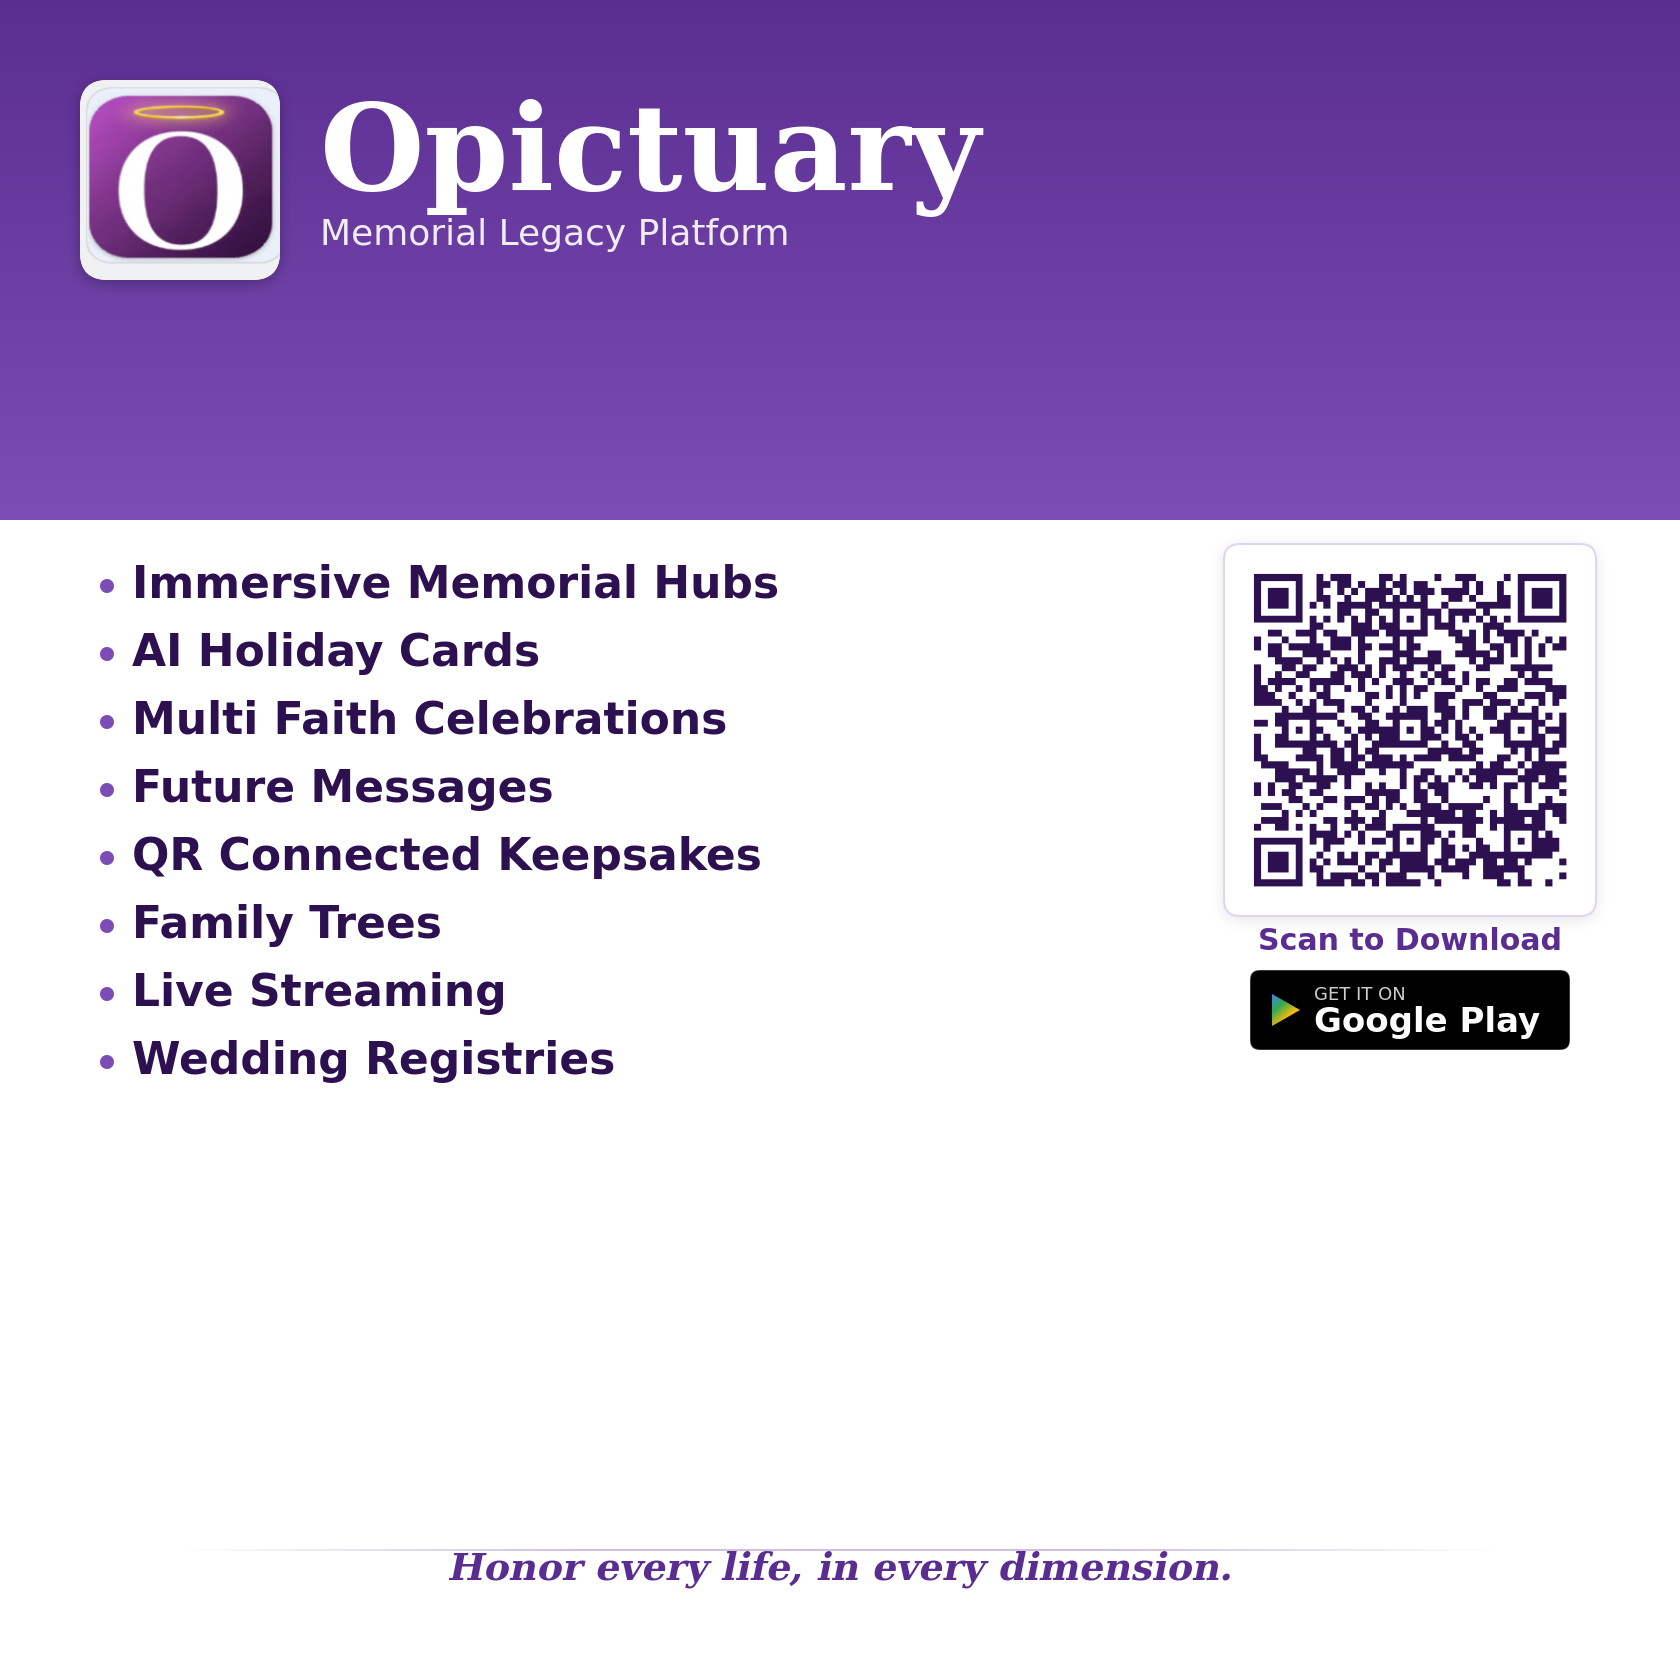
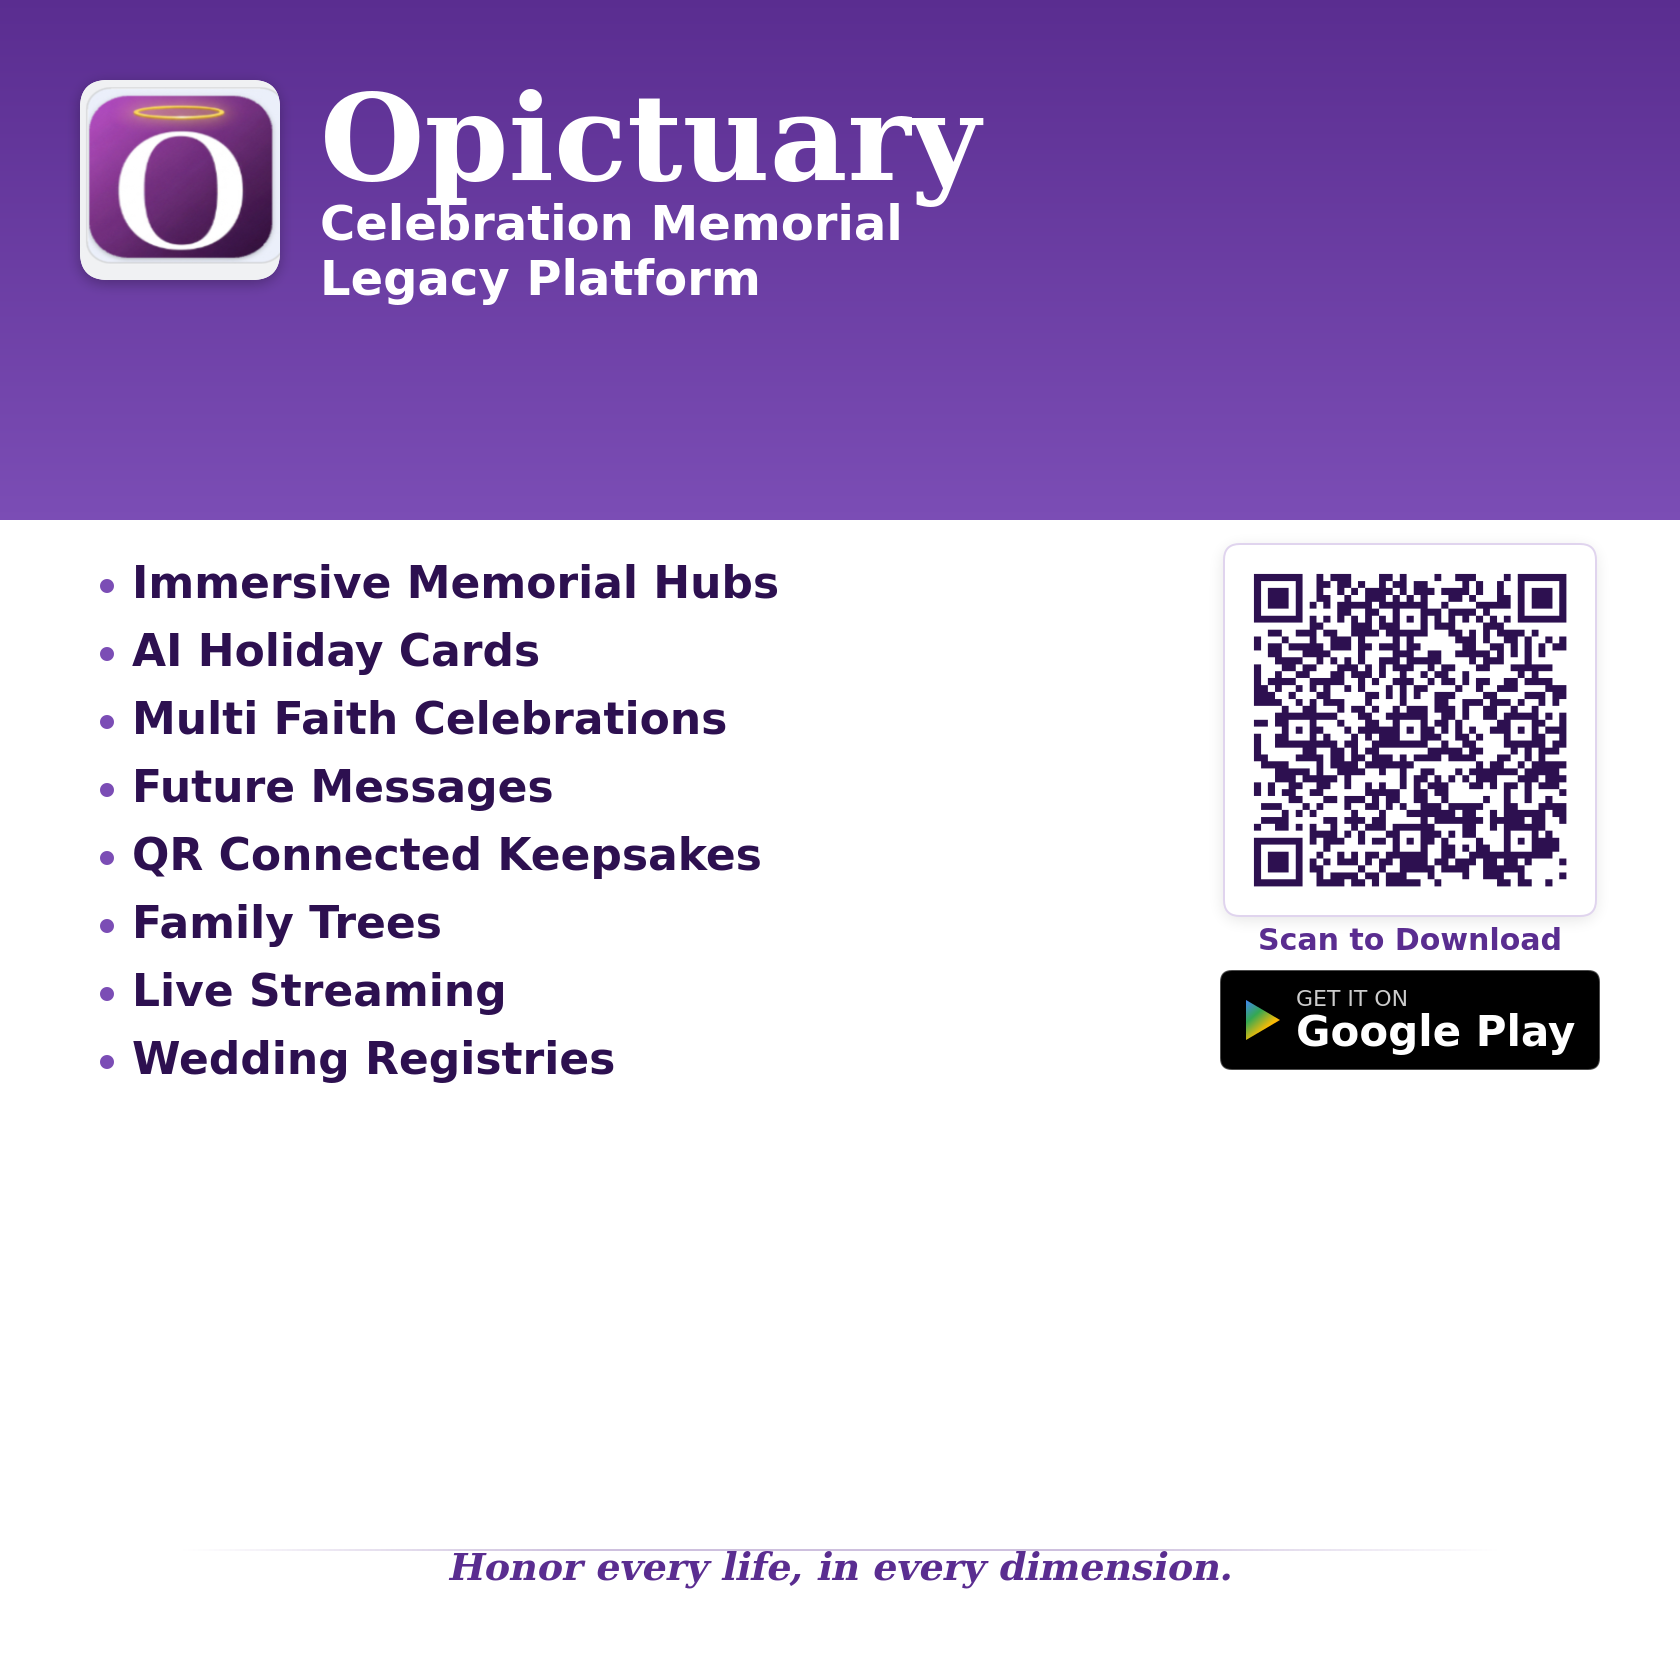
Update memorial sticker with larger text and improved Google Play badge
Adjust text sizes, element dimensions, and positioning in `generate-sticker.js` to increase readability of the "Celebration Memorial Legacy Platform" subtitle and the Google Play badge, and rename the output file to `OpictuarySticker5x5.png`.

Replit-Commit-Author: Agent
Replit-Commit-Session-Id: 05a82474-a50c-443d-bb5e-5c4e27e71629
Replit-Commit-Checkpoint-Type: full_checkpoint
Replit-Commit-Event-Id: fdeeb436-a134-4163-bfac-01d14125a96e
Replit-Commit-Screenshot-Url: https://storage.googleapis.com/screenshot-production-us-central1/0619f857-3b31-48e3-9f83-e1495112055c/05a82474-a50c-443d-bb5e-5c4e27e71629/p3oLqDp

Changed region(s): [[0.1857, 0.031, 0.5881, 0.1857], [0.7119, 0.5571, 0.9595, 0.65]]

diff --git a/generate-sticker.js b/generate-sticker.js
@@ -67,11 +67,12 @@ async function generateSticker() {
   ctx.textAlign = 'left';
   ctx.font = 'bold 120px serif';
   ctx.fillStyle = '#FFFFFF';
-  ctx.fillText('Opictuary', textX, iconY + 110);
+  ctx.fillText('Opictuary', textX, iconY + 100);
 
-  ctx.font = '36px sans-serif';
-  ctx.fillStyle = 'rgba(255,255,255,0.9)';
-  ctx.fillText('Memorial Legacy Platform', textX, iconY + 165);
+  ctx.font = 'bold 48px sans-serif';
+  ctx.fillStyle = '#FFFFFF';
+  ctx.fillText('Celebration Memorial', textX, iconY + 160);
+  ctx.fillText('Legacy Platform', textX, iconY + 215);
 
   const QR_SIZE = 340;
   const qrX = WIDTH - M - QR_SIZE - 20;
@@ -110,28 +111,28 @@ async function generateSticker() {
   ctx.fillStyle = '#5A2D90';
   ctx.fillText('Scan to Download', qrX + QR_SIZE / 2, qrCenterY + QR_SIZE + 50);
 
-  const gpBadgeW = 320;
-  const gpBadgeH = 80;
+  const gpBadgeW = 380;
+  const gpBadgeH = 100;
   const gpBadgeX = qrX + (QR_SIZE - gpBadgeW) / 2;
   const gpBadgeY = qrCenterY + QR_SIZE + 70;
 
-  roundedRect(ctx, gpBadgeX, gpBadgeY, gpBadgeW, gpBadgeH, 10);
+  roundedRect(ctx, gpBadgeX, gpBadgeY, gpBadgeW, gpBadgeH, 12);
   ctx.fillStyle = '#000000';
   ctx.fill();
 
   ctx.strokeStyle = 'rgba(255,255,255,0.3)';
-  ctx.lineWidth = 1.5;
-  roundedRect(ctx, gpBadgeX, gpBadgeY, gpBadgeW, gpBadgeH, 10);
+  ctx.lineWidth = 2;
+  roundedRect(ctx, gpBadgeX, gpBadgeY, gpBadgeW, gpBadgeH, 12);
   ctx.stroke();
 
-  const triX = gpBadgeX + 22;
+  const triX = gpBadgeX + 26;
   const triCenterY = gpBadgeY + gpBadgeH / 2;
   ctx.beginPath();
-  ctx.moveTo(triX, triCenterY - 16);
-  ctx.lineTo(triX, triCenterY + 16);
-  ctx.lineTo(triX + 28, triCenterY);
+  ctx.moveTo(triX, triCenterY - 20);
+  ctx.lineTo(triX, triCenterY + 20);
+  ctx.lineTo(triX + 34, triCenterY);
   ctx.closePath();
-  const triGrad = ctx.createLinearGradient(triX, triCenterY - 16, triX + 28, triCenterY + 16);
+  const triGrad = ctx.createLinearGradient(triX, triCenterY - 20, triX + 34, triCenterY + 20);
   triGrad.addColorStop(0, '#4285F4');
   triGrad.addColorStop(0.33, '#34A853');
   triGrad.addColorStop(0.66, '#FBBC04');
@@ -140,13 +141,13 @@ async function generateSticker() {
   ctx.fill();
 
   ctx.textAlign = 'left';
-  ctx.font = '18px sans-serif';
+  ctx.font = '22px sans-serif';
   ctx.fillStyle = '#CCCCCC';
-  ctx.fillText('GET IT ON', gpBadgeX + 64, gpBadgeY + 30);
+  ctx.fillText('GET IT ON', gpBadgeX + 76, gpBadgeY + 36);
 
-  ctx.font = 'bold 34px sans-serif';
+  ctx.font = 'bold 42px sans-serif';
   ctx.fillStyle = '#FFFFFF';
-  ctx.fillText('Google Play', gpBadgeX + 64, gpBadgeY + 62);
+  ctx.fillText('Google Play', gpBadgeX + 76, gpBadgeY + 76);
 
   const featStartY = topH + 60;
   const featX = M + 20;
@@ -202,7 +203,7 @@ async function generateSticker() {
   const buffer = canvas.toBuffer('image/png', {
     resolution: DPI,
   });
-  fs.writeFileSync('attached_assets/generated_images/OpictuaryGotPrint.png', buffer);
+  fs.writeFileSync('attached_assets/generated_images/OpictuarySticker5x5.png', buffer);
   console.log('Sticker generated successfully!');
   console.log(`Pixels: ${WIDTH} x ${HEIGHT}`);
   console.log(`DPI: ${DPI}`);
